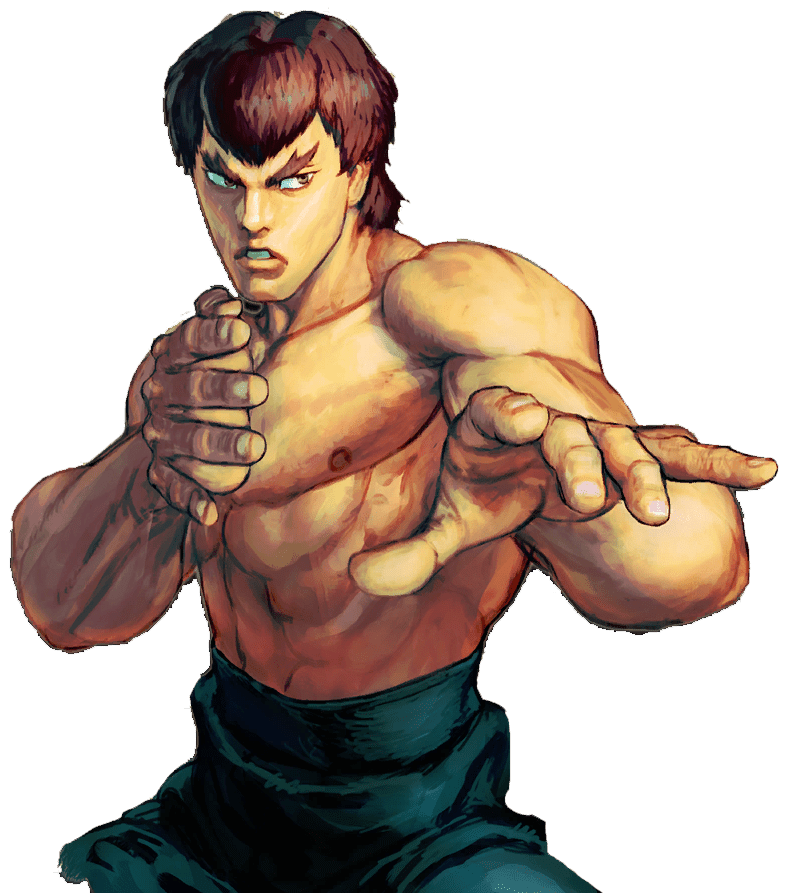
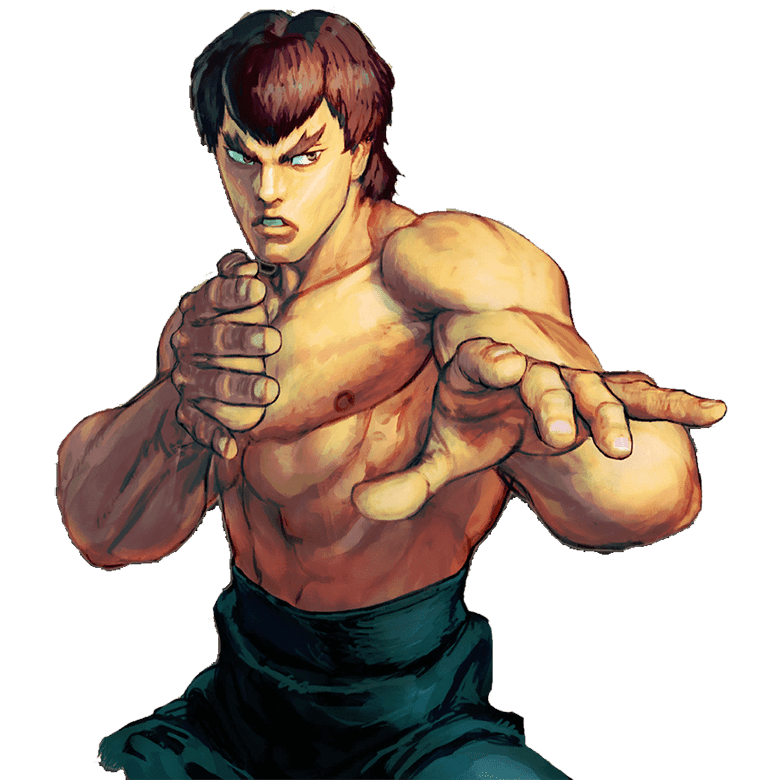
revised game and uploaded better images

Changed region(s): [[0.0, 0.0, 1.0, 1.0], [0.4308, 0.7692, 0.4615, 0.8308]]

diff --git a/assets/javascript/game.js b/assets/javascript/game.js
@@ -99,6 +99,7 @@ var fighterChar = fighter.nickname.toUpperCase().split(''); // Splits fighter's 
 var hiddenChar = hideChars(fighter, validChars, fighterChar);
 var wins = 0;
 
+
 // Function to create guess lines for the game
 function hideChars(fighterObj, validCharsArray, fighterCharArray) {
 	var lines = [];
@@ -117,6 +118,10 @@ function hideChars(fighterObj, validCharsArray, fighterCharArray) {
 
 function innerHtmlById(id, add){
 	document.getElementById(id).innerHTML = add;
+}
+
+function reload() {
+	location.reload();
 }
 
 // replaces a line by a char
@@ -195,9 +200,27 @@ document.onkeyup = function(event) {
 	// if there are no more lines to guess
 	if (!hiddenChar.includes("_")) {
 		wins++;
+
 		playTheme(fighter);
 		fighterImage(fighter);
-		resetGame(fighters);
+		var index = fighters.indexOf(fighter);
+		fighters.splice(index, 1);
+
+		if (fighters.length > 0) {
+			resetGame(fighters);
+		} else {
+			//win game and reset button
+			innerHtmlById("game", "");
+			innerHtmlById("game", "<h1>Thank you for Playing</h1><h1>You <span>W</span>in</h1>");
+			
+			var resetBtn = document.createElement("button");
+			resetBtn.className = "btn btn-primary";
+			resetBtn.setAttribute("type", "button");
+			resetBtn.onclick = reload;
+			resetBtn.innerHTML = "Reset Game";
+			document.getElementById("game").appendChild(resetBtn);
+		}		
+
 	}
 
 	innerHtmlById("guessesRemaining",numberOfTries);

diff --git a/assets/css/style.css b/assets/css/style.css
@@ -8,12 +8,13 @@
 }
 
 html, body {
-	font-family: 'streetfighter', arial, sans-serif;
+	font-family: 'Montserrat', sans-serif;
 	height: 100%;
 	width: 100%;
 }
 
 h1 {
+	font-family: 'streetfighter', arial, sans-serif;
 	text-align: center;
 	padding: 40px;
 	background: #e64517; /* Old browsers */
@@ -25,13 +26,12 @@ h1 {
 	-webkit-text-fill-color: transparent;
 }
 
-h1::first-letter {
+h1::first-letter, h1 span {
 	font-size: 150%;
 }
 
 
 h2 {
-	font-family: 'Montserrat', sans-serif;
 	text-transform: uppercase;
 }
 
@@ -49,7 +49,6 @@ h2 {
 }
 
 .gameEdition {
-	font-family: 'Montserrat', sans-serif;
 	font-size: 60px;
 	-webkit-text-stroke: 1px black;
 	color: white;
@@ -67,12 +66,13 @@ h2 {
 	margin: 0 auto;
 }
 
-.game {
+#game {
 	text-align: center;
 	color: white;
 }
 
 #currentWord, #guessesRemaining {
+	font-family: 'streetfighter', arial, sans-serif;
 	margin: 5px 0;
 	color: white;
 	font-size: 60px;
@@ -82,7 +82,6 @@ h2 {
 
 #wrongGuesses {
 	font-size: 36px;
-	font-family: 'Montserrat', sans-serif;
 }
 
 .fighterPortrait {

diff --git a/index.html b/index.html
@@ -18,7 +18,7 @@
 				<div id="fighterTheme"></div>
 			</div>
 			<div class="col-md-6">
-				<div class="game">
+				<div id="game">
 					<h1>Press any key to get started</h1>	
 					<h2 id="gameWins"></h2>
 					<h2>Current Word</h2>
